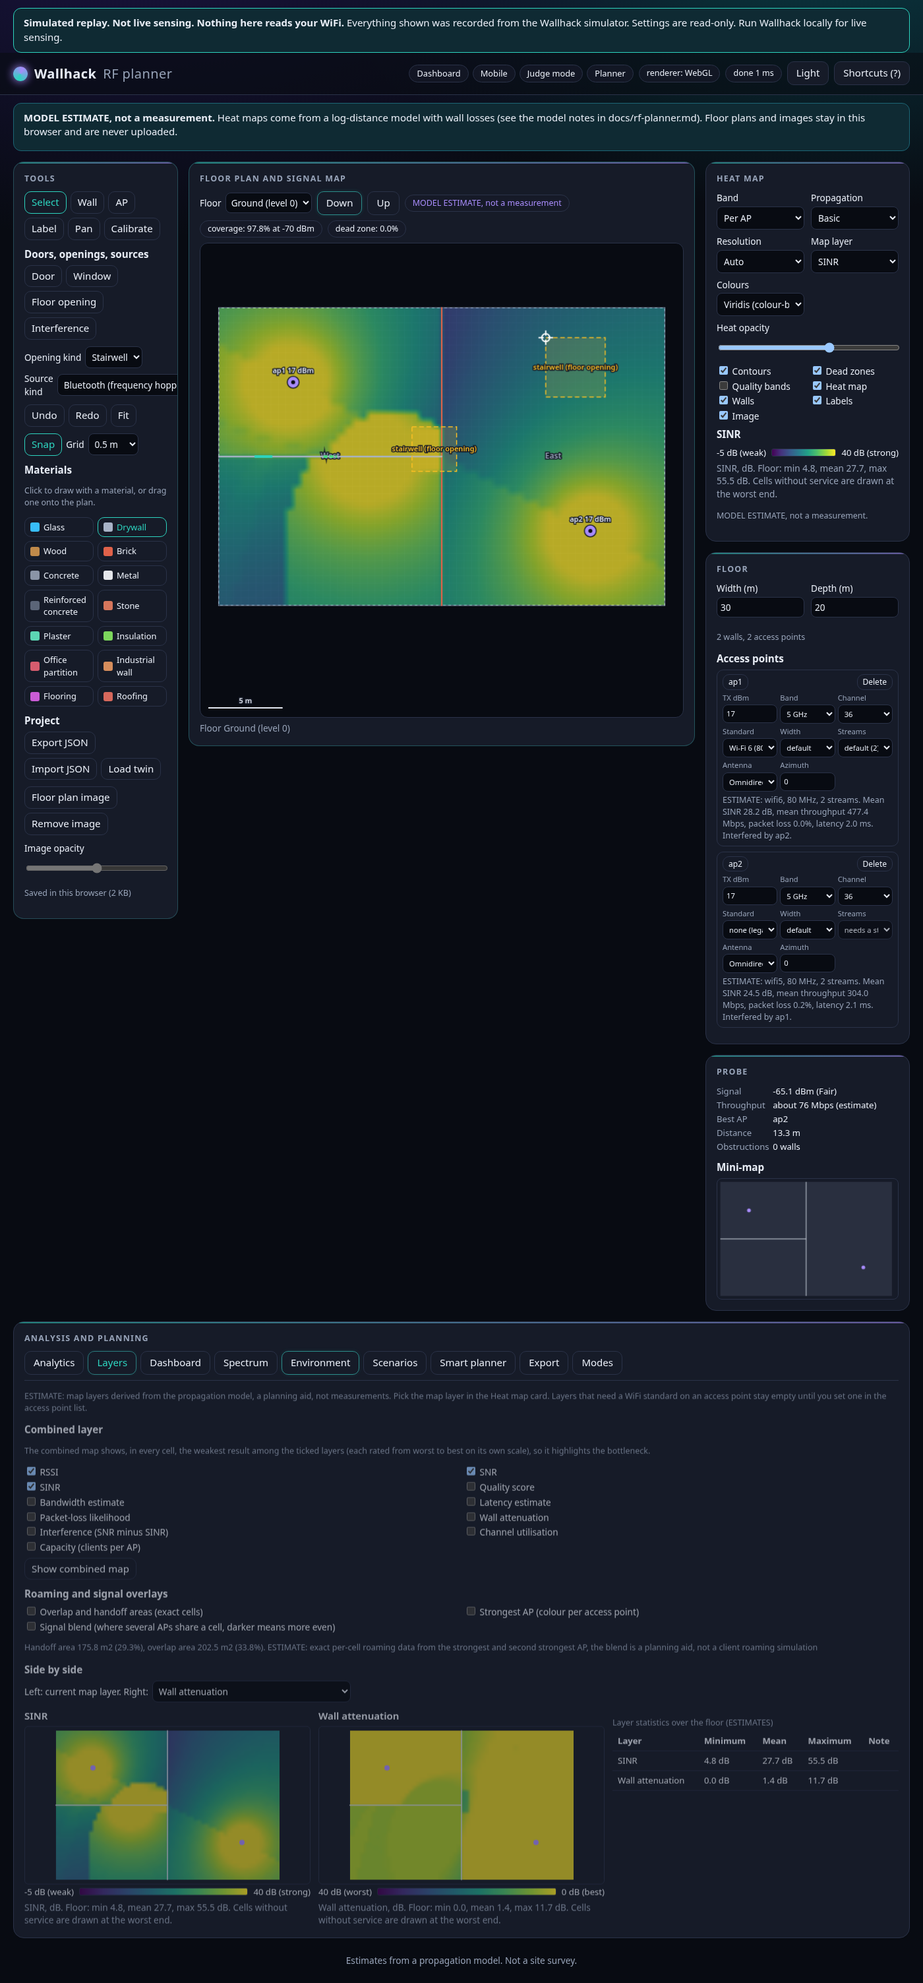
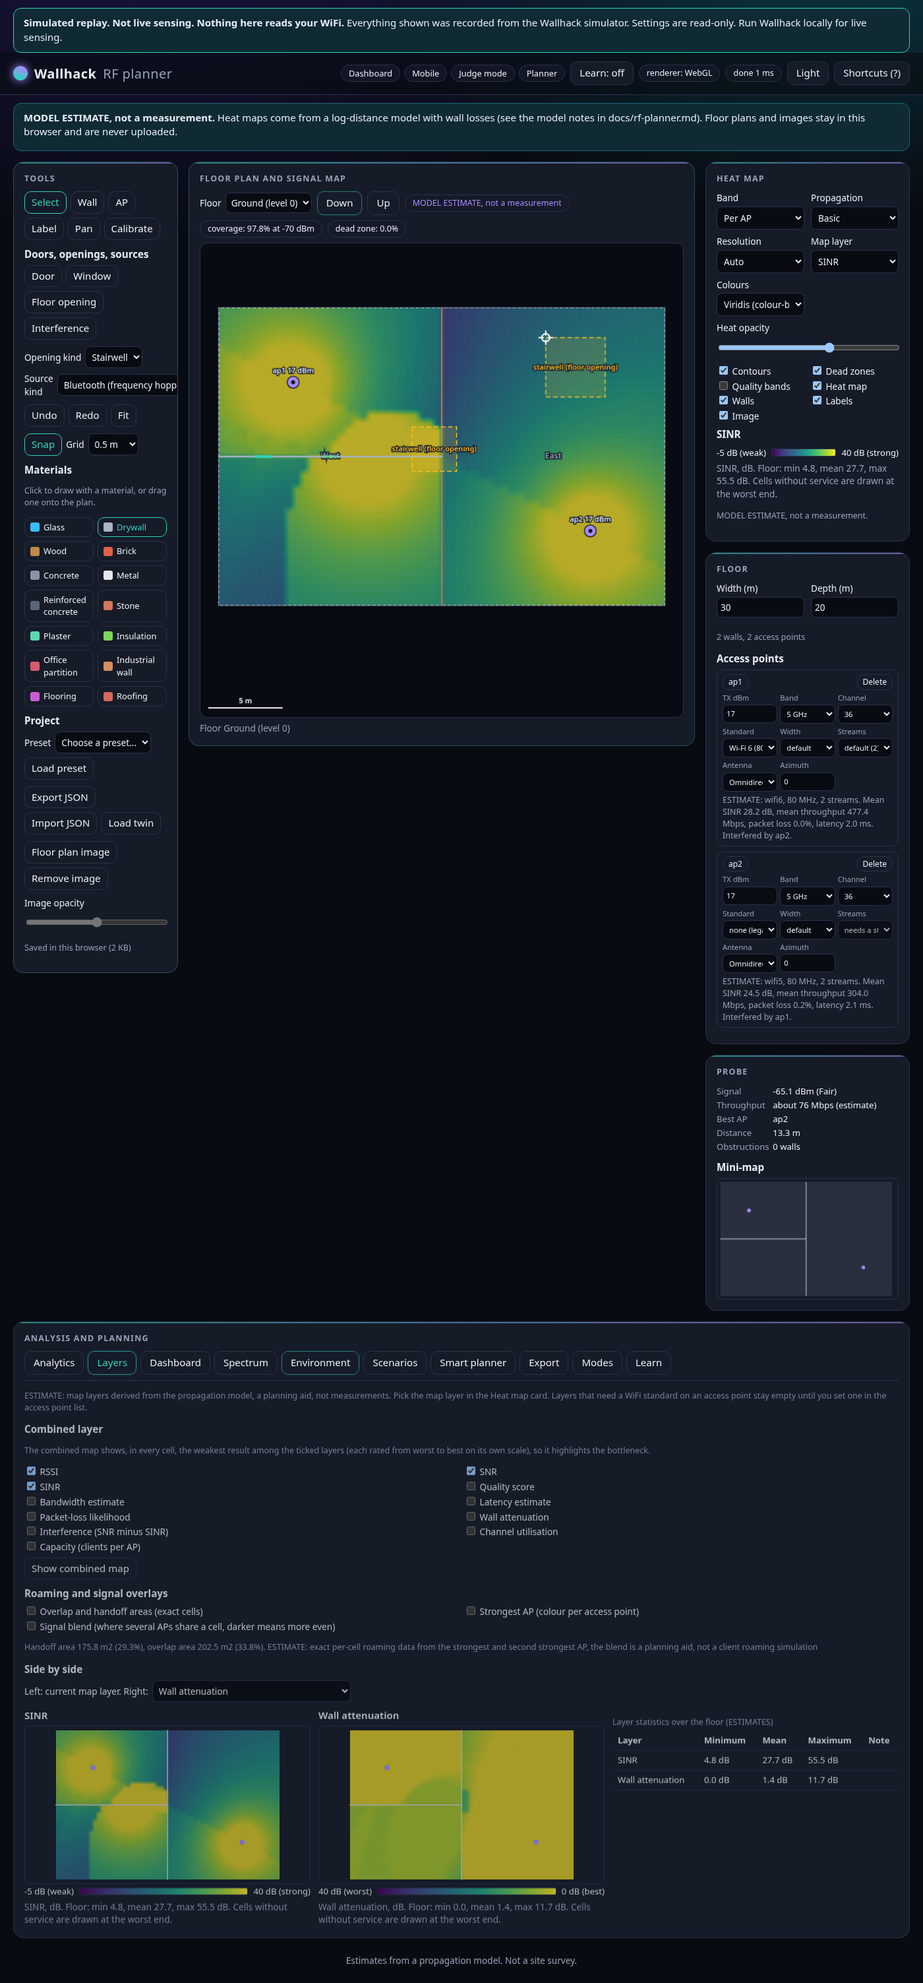
feat: smoke coverage, docs, screenshots and fixes for educational mode and presets

diff --git a/wallhack/static/planner-panels.js b/wallhack/static/planner-panels.js
@@ -661,7 +661,7 @@
       state.recs.forEach(function (r) {
         var applied = !!state.applied[r.id];
         var li = el("li", { class: applied ? "applied" : "" });
-        li.appendChild(el("div", { class: "rec-main" }, [el("strong", { text: r.kind.replace("_", " ") }), " ", el("span", { text: r.text })]));
+        li.appendChild(el("div", { class: "rec-main" }, [el("strong", { text: r.kind.replace(/_/g, " ") }), " ", el("span", { text: r.text })]));
         li.appendChild(el("div", { class: "muted hint", text: "Confidence: " + (r.confidence === null ? "n/a" : Math.round(r.confidence * 100) + "%") + ". " + r.reason }));
         var row = el("div", { class: "tool-row" });
         if (r.ghost) {
@@ -669,7 +669,7 @@
           row.appendChild(pv);
           li.addEventListener("mouseenter", function () { setGhost(r); }); li.addEventListener("mouseleave", function () { setGhost(null); });
         }
-        row.appendChild(button(applied ? "Applied" : "Apply", function () { applyRecs([r], "Apply recommendation: " + r.kind.replace("_", " ")); }, applied ? { disabled: "" } : { "data-rec": r.id }));
+        row.appendChild(button(applied ? "Applied" : "Apply", function () { applyRecs([r], "Apply recommendation: " + r.kind.replace(/_/g, " ")); }, applied ? { disabled: "" } : { "data-rec": r.id }));
         li.appendChild(row); list.appendChild(li);
       });
       if (!state.recs.length) { list.appendChild(el("li", { text: "No changes recommended." })); }

diff --git a/wallhack/static/planner-learn.js b/wallhack/static/planner-learn.js
@@ -229,6 +229,7 @@
     }
     function startLesson(id) {
       var l = lessonById(id), preset = data.presets.filter(function (p) { return p.id === l.scenario; })[0];
+      data.lesson = null;   // the load below fires store events that must not check the old lesson against the new project
       app.loadProject(JSON.parse(JSON.stringify(preset.project)));
       app.store.setFloor(l.floor);
       setBand(null); data.lesson = l; renderLesson(); showTopic(l.topic);
@@ -297,7 +298,12 @@
     }
 
     $("learnBtn").addEventListener("click", function () { setLearn(!data.on); });
-    app.store.subscribe(function (ev) { if (data.lesson && ev.source !== "select") { renderLesson(); } });
+    app.store.subscribe(function (ev) {
+      if (ev.source === "load") { whyOut.textContent = ""; }   // the explanation belonged to the previous project
+      if (!data.lesson || ev.source === "select") { return; }
+      if (!app.store.project.floors.some(function (f) { return f.id === data.lesson.floor; })) { data.lesson = null; }   // another project was loaded
+      renderLesson();
+    });
     Promise.all([getJson("learn-content.json"), getJson("scenarios.json")]).then(function (r) {
       data.presets = S.validateScenarioLibrary(r[1], { config: app.config });
       data.content = validateContent(r[0], data.presets);

diff --git a/tools/planner_smoke.py b/tools/planner_smoke.py
@@ -129,6 +129,7 @@ def run(page, base, problems, args):
     wait_idle(page)
     run_features(page, problems)
     run_lab_features(page, problems, args)
+    run_learn_features(page, problems, args)
     if not args.no_screenshot:
         page.screenshot(path=str(ROOT / "docs" / ("screenshot-planner-demo.png" if args.demo else "screenshot-planner.png")), full_page=True)
 
@@ -506,6 +507,79 @@ def run_lab_features(page, problems, args):
             page.locator("#panel-" + name).scroll_into_view_if_needed()
             page.locator("#panel-" + name).screenshot(path=str(docs / ("screenshot-planner-%s%s.png" % (name, suffix))))
         page.set_viewport_size(VIEWPORT)
+
+
+def run_learn_features(page, problems, args):
+    """Scenario presets, educational mode, lessons, probe explanation, plan explanation and the report sections."""
+    suffix = "-demo" if args.demo else ""
+    docs = ROOT / "docs"
+    page.set_viewport_size({"width": 1400, "height": 1100})
+    ids = page.evaluate("() => Array.from(document.querySelectorAll('#presetSel option')).map(o => o.value).filter(Boolean)")
+    if len(ids) != 7:
+        problems.append("preset picker lists %d scenarios instead of 7" % len(ids))
+    for pid in ids:
+        page.select_option("#presetSel", pid); page.click("#presetLoad")
+        page.wait_for_function("(n) => window.PlannerApp.store.project.name === n", arg=page.evaluate("(id) => window.PlannerApp.learn.presets.find(p => p.id === id).project.name", pid), timeout=5000)
+        wait_idle(page)
+    page.select_option("#presetSel", "office_floor"); page.click("#presetLoad"); wait_idle(page)
+    if not args.no_screenshot:
+        page.evaluate("window.scrollTo(0, 0)")
+        page.locator(".p-tools").screenshot(path=str(docs / ("screenshot-planner-presets%s.png" % suffix)))
+    # educational mode
+    page.click("#learnBtn")
+    if page.get_attribute("#learnBtn", "aria-pressed") != "true":
+        problems.append("Learn toggle did not switch on")
+    page.focus("#bandSel")
+    if "frequencies" not in page.inner_text("#learnContext").lower():
+        problems.append("contextual panel did not show the frequencies topic for the band control")
+    tab(page, "learn")
+    page.select_option("#lessonSel", "walls"); wait_idle(page)
+    if "Not yet" not in page.inner_text("#lessonBox"):
+        problems.append("lesson should start unsolved")
+    page.click("#whyBtn")
+    if "Where the signal went" not in page.inner_text("#whyOut"):
+        problems.append("probe explanation did not render")
+    page.click("#lessonShow"); wait_idle(page)
+    page.wait_for_function("() => /Lesson complete/.test(document.getElementById('lessonBox').innerText)", timeout=15000)
+    page.select_option("#lessonSel", "channels"); wait_idle(page)
+    page.click("#lessonShow"); wait_idle(page)
+    page.wait_for_function("() => /Lesson complete/.test(document.getElementById('lessonBox').innerText)", timeout=15000)
+    if not args.no_screenshot:
+        page.evaluate("window.scrollTo(0, 0)")
+        page.screenshot(path=str(docs / ("screenshot-planner-learn%s.png" % suffix)), full_page=True)
+    page.click("#learnBtn")
+    # plan, recommendations and explanation
+    page.select_option("#presetSel", "hotel_floor"); page.click("#presetLoad"); wait_idle(page)
+    tab(page, "smart")
+    page.click("#planRun")
+    page.wait_for_selector("#recList li", timeout=120000)
+    kinds = page.evaluate("() => Array.from(document.querySelectorAll('#recList .rec-main strong')).map(e => e.textContent)")
+    if "dead zone fix" not in kinds or "add ap" not in kinds:
+        problems.append("recommendation panel lacks dead-zone or placement entries: %s" % kinds)
+    if "Confidence:" not in page.inner_text("#recList"):
+        problems.append("recommendations show no confidence")
+    if args.demo:
+        if page.locator("#explainBtn").count():
+            problems.append("the explain button must be hidden in the static demo")
+    else:
+        page.click("#explainBtn")
+        page.wait_for_function("() => /MODEL ESTIMATE/.test(document.getElementById('explainOut').innerText)", timeout=15000)
+        if "Rule-based text" not in page.inner_text("#explainOut"):
+            problems.append("explanation should be rule-based when no LLM is configured")
+    if not args.no_screenshot:
+        page.locator("#panel-smart").screenshot(path=str(docs / ("screenshot-planner-advice%s.png" % suffix)))
+    # report
+    tab(page, "export")
+    with page.expect_download(timeout=30000) as d:
+        page.click("[data-export=pdf]")
+    pdf = Path(d.value.path()).read_bytes()
+    for text in (b"Floor overview", b"Coverage maps per propagation mode", b"Access point locations", b"Spectrum summary", b"Performance of this analysis", b"Text summary", b"MODEL ESTIMATE"):
+        if text not in pdf:
+            problems.append("PDF report lacks the section %r" % text.decode())
+    if not args.no_screenshot:
+        page.locator("#panel-export").screenshot(path=str(docs / ("screenshot-planner-report%s.png" % suffix)))
+    page.set_viewport_size(VIEWPORT)
+    print("learn feature checks done")
 
 
 def main() -> int:

diff --git a/tests/test_rf_worker.py b/tests/test_rf_worker.py
@@ -157,7 +157,7 @@ def test_analysis_jobs_in_worker_core():
             keys: Object.keys(plan), cancelled, planned, rank: rank.rows.map(x => [x.id, x.score]) });
     """, project)
     assert r["coverage"] == r["direct"] and not r["hasGrid"]
-    assert len(r["steps"]) == 5 and r["steps"][0] == "finding coverage issues" and r["placements"] >= 1
+    assert len(r["steps"]) == 8 and r["steps"][0] == "finding coverage issues" and r["placements"] >= 1
     assert {"issues", "placements", "count", "power", "channels"} <= set(r["keys"])
     assert r["cancelled"] == 1 and r["planned"] == 0
     assert [x[0] for x in r["rank"]] == ["y", "x"] and r["rank"][0][1] > r["rank"][1][1]

diff --git a/docs/rf-planner.md b/docs/rf-planner.md
@@ -214,11 +214,14 @@ Against the original mission list. "complete" means the code exists and is cover
 | Analytics Dashboard | complete | Coverage, average RSSI, weak area, dead zones with Locate, overlap, roaming candidates, per-AP throughput, client capacity, channel utilisation, all with table equivalents. Throughput, capacity and utilisation are ESTIMATES from a rate table. |
 | Performance Optimization | complete | Web Worker, 16x16 tiles, coarse then fine pass, per-AP cache, dirty-tile edits, spatial index, main-thread fallback. Measured in `perf-rf.md` (SwiftShader, Xeon). Deferred: cancelling inside one long planner step; real GPU and Pi 4 numbers UNVERIFIED. |
 | Scenario Comparison | complete | Saved scenarios, side by side, delta and slider views, metric diff, explainable optimisation score, ranking. |
-| Smart WiFi Planner | partial | Issue detection, greedy AP placement, AP count, power and channel advice, confidence (model sensitivity, not accuracy), undoable apply. Deferred: optional LLM explain endpoint (the deterministic texts work offline); adjacent-channel interference is modelled in the SINR estimate (see above) but the channel plan still counts co-channel conflicts only. |
+| Smart WiFi Planner | partial | Issue detection, greedy AP placement, AP count, power and channel advice, confidence (model sensitivity, not accuracy), undoable apply. Channel advice now maximises mean SINR (adjacent-channel and non-WiFi sources included, `planChannelsSinr`), and mesh node and dead-zone fixes are recommended with confidence and rationale. `POST /api/planner/explain` explains a plan from engine numbers only, with a rule-based fallback when the LLM is off. |
 | Modern UI/UX | partial | Glass dark and light themes, keyboard shortcuts, tooltips, responsive layout without horizontal overflow at 390 px, ARIA labels. Touch and pinch code exists but was never exercised by a test or a device. |
 | Export Features | partial | PNG, CSV, project JSON, PDF, print and BoQ CSV through `PlannerExport.register`. Deferred: a "Save to local twin" button (the twin API caps the request at 1 MB, 5000 walls per floor and 600k background characters); PDF and PNG not opened in a real viewer. |
 | Architecture Improvements | complete | Engine (`rfmodel.py`, `rf-engine.js`, `rf-optimizer.js`) separate from UI files, `rf-config.json` materials and tables, registries (modes, materials, exports), JSDoc types checked by `make typecheck`, ADR and docs. |
 | Bonus Features | complete | Multi-floor, 3D building, mesh, capacity, IoT and enterprise modes, each a simple model (see the table above). |
+
+## Scenario presets and educational mode
+`wallhack/static/scenarios.json` (generated by `tools/make_scenarios.py`, checked by a test) holds seven illustrative layouts: small apartment, large home, office floor, school building, warehouse, hotel floor and coffee shop. The Project card loads them, also in the static demo. `planner-state.js` `validateScenarioLibrary` validates every preset through `validateProject`. `learn-content.json` holds the topics and lessons used by the Learn tab. The presets are not real buildings and every coverage number is a MODEL ESTIMATE.
 
 ## Typed interfaces
 `tsconfig.json` (`allowJs`, `checkJs`, `noEmit`, not strict) covers `rf-engine.js`, `rf-optimizer.js` and `planner-state.js`. Run `make typecheck` (`npx -p typescript tsc -p tsconfig.json`). TypeScript is a dev tool only: `node_modules` is gitignored and nothing needs it at runtime. The check currently passes with no errors; JSDoc function types must use arrow syntax, for example `(ctx:Object,x:number)=>number`.

diff --git a/docs/platform/18-reporting-engine.md b/docs/platform/18-reporting-engine.md
@@ -9,7 +9,7 @@ Audited file: `wallhack/static/planner-export.js` (332 lines), `wallhack/static/
 | `png` | PNG of the current view | plan, heat map, legend, annotations, MODEL ESTIMATE line | PARTIALLY VERIFIED (script run, not opened in a viewer) |
 | `csv` | CSV analytics | label line, summary, quality bands, per-AP table (id, band, channel, width, served area, usable Mbps, client capacity, expected clients, utilisation, co-channel neighbours), dead zones | VERIFIED for escaping and formula-injection guard (`test_csv_escaping_and_formula_injection`) |
 | `json` | Project JSON (`*.wallhack-plan.json`) | the full project, `schema_version` 2 | VERIFIED by import and validation tests |
-| `pdf` | PDF coverage report, built by hand (PDF 1.4, Helvetica text, JPEG heat map via DCTDecode) | title, project, floor and date, an estimate banner, summary table (coverage at -70 dBm, mean RSSI, weak area, dead zones, overlap, roaming, mean throughput, client capacity), heat map image, per-AP table, issues and recommendations (empty until the Smart planner has run), footer | structure and signature checked by script; UNVERIFIED in a real viewer |
+| `pdf` | PDF coverage report, built by hand (PDF 1.4, Helvetica text, JPEG heat map via DCTDecode) | title, project, floor and date, an estimate banner, summary table (coverage at -70 dBm, mean RSSI, weak area, dead zones, overlap, roaming, mean throughput, client capacity), heat map image, per-AP table, issues and recommendations (empty until the Smart planner has run), footer. Also floor overview, coverage maps per propagation mode (basic, enhanced, multipath), AP locations, spectrum summary, performance of the analysis, confidence with rationale per recommendation and a screen-reader text summary | structure and section titles tested (`tests/test_planner_learn.py`) and a real export is checked in `tools/planner_smoke.py`; UNVERIFIED in a real viewer |
 | `print` | Browser print dialog | the page | UNVERIFIED |
 | `boq` | Bill of quantities CSV (enterprise mode) | AP count per band, mounting kits, PoE switch ports and switches, Cat6A cable length, from `planner_modes.enterprise` rule-of-thumb constants | PARTIALLY VERIFIED |
 

diff --git a/CHANGELOG.md b/CHANGELOG.md
@@ -2,6 +2,14 @@
 
 ## Unreleased
 
+### Scenarios, educational mode, explain and reports
+- feat: scenario presets (`scenarios.json`, generator `tools/make_scenarios.py`) loadable from the planner and the offline demo; `validateScenarioLibrary` in `planner-state.js`.
+- feat: educational mode (`planner-learn.js`, `learn-content.json`): Learn toggle with contextual panels, six lessons with engine-computed checks and an undoable "Show me", and a "why is the signal weak here" panel from the engine explain output.
+- feat: `POST /api/planner/explain`, grounded on engine numbers with a deterministic fallback when the LLM is off, number-grounding check on replies, consent kept for cloud providers.
+- feat: `rf-optimizer.js` gains `planChannelsSinr`, `suggestMeshNodes` and `suggestDeadZoneFixes`; the Smart planner lists them with confidence and rationale. New `planner` config keys `sinr_default_standard`, `sinr_default_standard_6ghz`, `channel_sinr_passes`, `max_dead_zone_fixes` and `confidence.full_gain_db`.
+- feat: PDF report adds floor overview, per-mode coverage maps, AP locations, spectrum summary, performance and a text summary.
+- test: `tests/test_scenarios.py`, `tests/test_planner_learn.py`, `tests/test_explain.py`; `tools/planner_smoke.py` covers presets, lessons, advice and the report; new screenshots in `docs/`.
+
 ### Platform documentation
 - docs: `docs/platform/` audit and design set (README index, 01 to 06, 08 to 23, generated material database as 07, `adr-frontend-stack.md`) written from the code with evidence tables, honest VERIFIED / PARTIALLY VERIFIED / UNVERIFIED labels, a ranked top 100 list whose Done rows cite existing files, and DESIGN ONLY labels for educational mode, AR, computer vision, campus and smart-city planning.
 - test: `tests/test_platform_docs.py` checks the files exist, the top 100 has at least 100 ranked rows in composite order, the composite matches its formula and every Done row cites files that exist.

diff --git a/docs/platform/06-ai-planner-design.md b/docs/platform/06-ai-planner-design.md
@@ -53,7 +53,7 @@ A persona is a system prompt, not a new model. Proposed prompt contract:
 
 What exists (VERIFIED against mocked HTTP servers only, UNVERIFIED against real providers): providers `ollama`, `llamacpp`, `openai`, `azure`; off by default (`llm_provider = ""`); keys only from `OPENAI_API_KEY` or `AZURE_OPENAI_API_KEY`; cloud providers need `confirm_off_device=true` on every request; response size capped; errors never include keys. `POST /api/insights/explain` rewords the sensing findings from `insights.py`.
 
-What is NOT BUILT: an explain endpoint for planner advice. Design:
+Built: `POST /api/planner/explain` (`wallhack/llm.py` `explain_planner`, `app.py`). The body is validated and size capped. With the LLM off the answer is a deterministic rule-based text (HTTP 200, `source: "rules"`). With a provider, a reply that contains a number not present in the input is rejected and replaced by the rule-based text; provider failures also fall back. A cloud provider without `confirm_off_device` gives 409 and sends nothing. VERIFIED with a mocked provider (`tests/test_explain.py`), UNVERIFIED against real providers. In the static demo the button is hidden. The original design:
 
 1. New route, for example `POST /api/planner/explain`, same guards as `/api/insights/explain` (same-origin, JSON only, `confirm_off_device`).
 2. Body is the engine result (issues, recommendations, numbers). The server validates shape and size, then builds the prompt from a template. The model is asked to narrate, not to calculate.

diff --git a/docs/platform/16-educational-mode.md b/docs/platform/16-educational-mode.md
@@ -1,6 +1,6 @@
 # 16 Educational mode
 
-Status: **DESIGN ONLY.** Nothing in this document is built. The goal is to teach how Wi-Fi behaves by letting a learner change one thing and watch the model respond, using engine functions that already exist, with the MODEL ESTIMATE label kept.
+Status: **BUILT (first version), PARTIALLY VERIFIED.** `wallhack/static/planner-learn.js` and `learn-content.json` implement the Learn tab, the Learn toggle with a contextual panel for RSSI, SNR, SINR, attenuation, propagation, frequencies, channels and interference, six lessons (propagation, band, wall loss, channels, interference, dead zone) and a "why is the signal weak here" panel built on `probeAt(..., {explain: true})`. Lesson checks call the engine and are tested in `tests/test_planner_learn.py` (each fails on the starting project and passes on its solution, and the solution is undoable). Headless Chromium covers the flow in `tools/planner_smoke.py`. Not built: reflection paths, antenna polar plot, mesh lesson, MLO lesson, SINR side-by-side lesson. The original design follows. The goal is to teach how Wi-Fi behaves by letting a learner change one thing and watch the model respond, using engine functions that already exist, with the MODEL ESTIMATE label kept.
 
 ## Lesson set
 

diff --git a/README.md b/README.md
@@ -147,6 +147,7 @@ Off by default (`llm_provider` empty). Set it with `--config`/`config.json` or `
 | Premium UI | Complete | PARTIALLY VERIFIED; no Pi 4 frame-rate measurement. |
 | RF intelligence scores | Complete | Model constants are textbook values, UNVERIFIED against real buildings. |
 | RF lab (non-WiFi interferers, PER/latency/airtime estimates, stairwell voids, explain, spectrum, decay, roaming map) | Complete | VERIFIED by automated Python tests and Python/JS parity (`tests/test_rf_lab.py`). Every number is a MODEL ESTIMATE with assumed constants (no standard SINR to PER formula exists); UNVERIFIED against real radios, microwave ovens or buildings. No UI editor for interferers or voids yet. |
+| Scenario presets, educational mode, plan explanation, richer PDF report | Complete | VERIFIED by automated tests (`tests/test_scenarios.py`, `test_planner_learn.py`, `test_explain.py`) and headless Chromium (`tools/planner_smoke.py`, live and `--demo`). The explain endpoint is VERIFIED against a mocked provider only, UNVERIFIED against real LLM services. Lesson content is not reviewed by a teacher, and PDFs are UNVERIFIED in a real viewer. |
 | Judge mode | Complete | Statuses are checked against this README by a test. |
 
 ## Platform documentation

diff --git a/docs/platform/21-top-100-improvements.md b/docs/platform/21-top-100-improvements.md
@@ -32,7 +32,7 @@ Reading the list: Done rows with high composite are the strengths to demo. Not s
 | 14 | Model-sensitivity confidence for recommendations | 4 | 3 | 5 | 5 | 3 | 5 | 81.7 | Done | `wallhack/static/rf-optimizer.js`, `docs/rf-planner.md` |
 | 15 | Optional LLM, off by default, keys from env only | 4 | 3 | 4 | 5 | 4 | 4 | 80.0 | Done | `wallhack/llm.py`, `tests/test_insights.py` |
 | 16 | Static demo build for Vercel with strict CSP | 5 | 3 | 3 | 5 | 4 | 3 | 80.0 | Done | `tools/build_demo.py`, `vercel.json`, `tests/test_demo_build.py` |
-| 17 | Educational mode with guided lessons | 4 | 3 | 3 | 5 | 5 | 4 | 80.0 | Not started | none |
+| 17 | Educational mode with guided lessons | 4 | 3 | 3 | 5 | 5 | 4 | 80.0 | Done | `wallhack/static/planner-learn.js`, `tests/test_planner_learn.py` |
 | 18 | LLM explain endpoint for planner recommendations | 4 | 3 | 4 | 5 | 4 | 4 | 80.0 | Not started | none |
 | 19 | Antenna orientation optimiser (azimuth search) | 4 | 3 | 4 | 5 | 4 | 4 | 80.0 | Not started | none |
 | 20 | Phone coverage test feeding measured points back | 4 | 4 | 4 | 5 | 5 | 4 | 80.0 | Not started | none |

diff --git a/docs/platform/README.md b/docs/platform/README.md
@@ -27,7 +27,7 @@ Competitor statements in `19-competitive-analysis.md` come from general knowledg
 | 13 | [Security review](13-security-review.md) | Findings with severity and status |
 | 14 | [Deployment plan](14-deployment-plan.md) | Pi, LAN, Vercel, Docker (design) |
 | 15 | [Wi-Fi physics](15-wifi-physics.md) | Formulas, citations, inaccuracy report |
-| 16 | [Educational mode](16-educational-mode.md) | DESIGN ONLY |
+| 16 | [Educational mode](16-educational-mode.md) | BUILT (first version), PARTIALLY VERIFIED |
 | 17 | [AR and computer vision](17-ar-computer-vision.md) | DESIGN ONLY |
 | 18 | [Reporting engine](18-reporting-engine.md) | Audit of exports and gaps |
 | 19 | [Competitive analysis](19-competitive-analysis.md) | General knowledge, not freshly researched |
